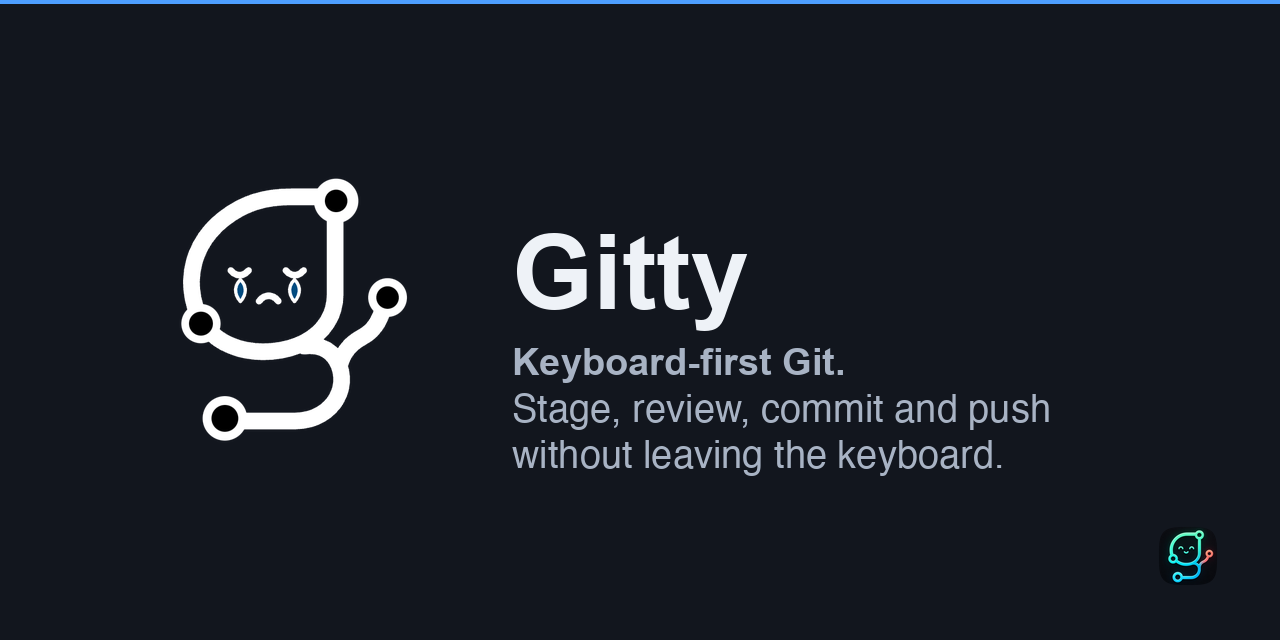
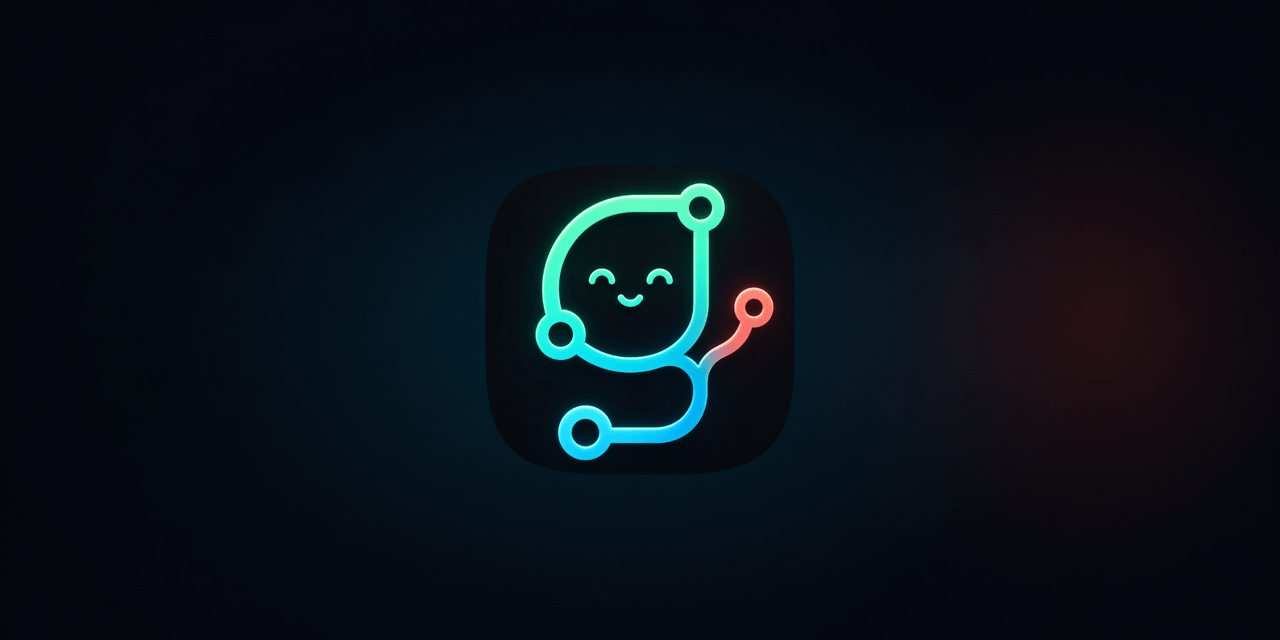
Simplify the social preview

diff --git a/web-demo/index.html b/web-demo/index.html
@@ -24,7 +24,7 @@
     <meta property="og:image" content="https://gitty.c0di.com/social-preview.png" />
     <meta property="og:image:width" content="1280" />
     <meta property="og:image:height" content="640" />
-    <meta property="og:image:alt" content="Gitty, showing its empty state with nothing left to commit." />
+    <meta property="og:image:alt" content="The Gitty app icon on a quiet dark background." />
 
     <!-- summary_large_image rather than the default summary: the default crops
          to a small square, which loses the app entirely. -->
@@ -43,4 +43,3 @@
     <script type="module" src="/src/main.tsx"></script>
   </body>
 </html>
-

diff --git a/README.md b/README.md
@@ -1,6 +1,6 @@
 # Gitty
 
-![Gitty — keyboard-first Git. The Gitty character, shown as it appears when a repository has no changes, beside the app name and tagline.](public/social-preview.png)
+![The Gitty app icon on a quiet dark background.](public/social-preview.png)
 
 **Fast, keyboard-driven Git for macOS, Windows, and Linux.** Stage, review, commit, and push without leaving the keyboard. Gitty is a cross-platform native [Tauri](https://tauri.app/) app — lightweight, instant to open, and built to stay out of your way.
 
